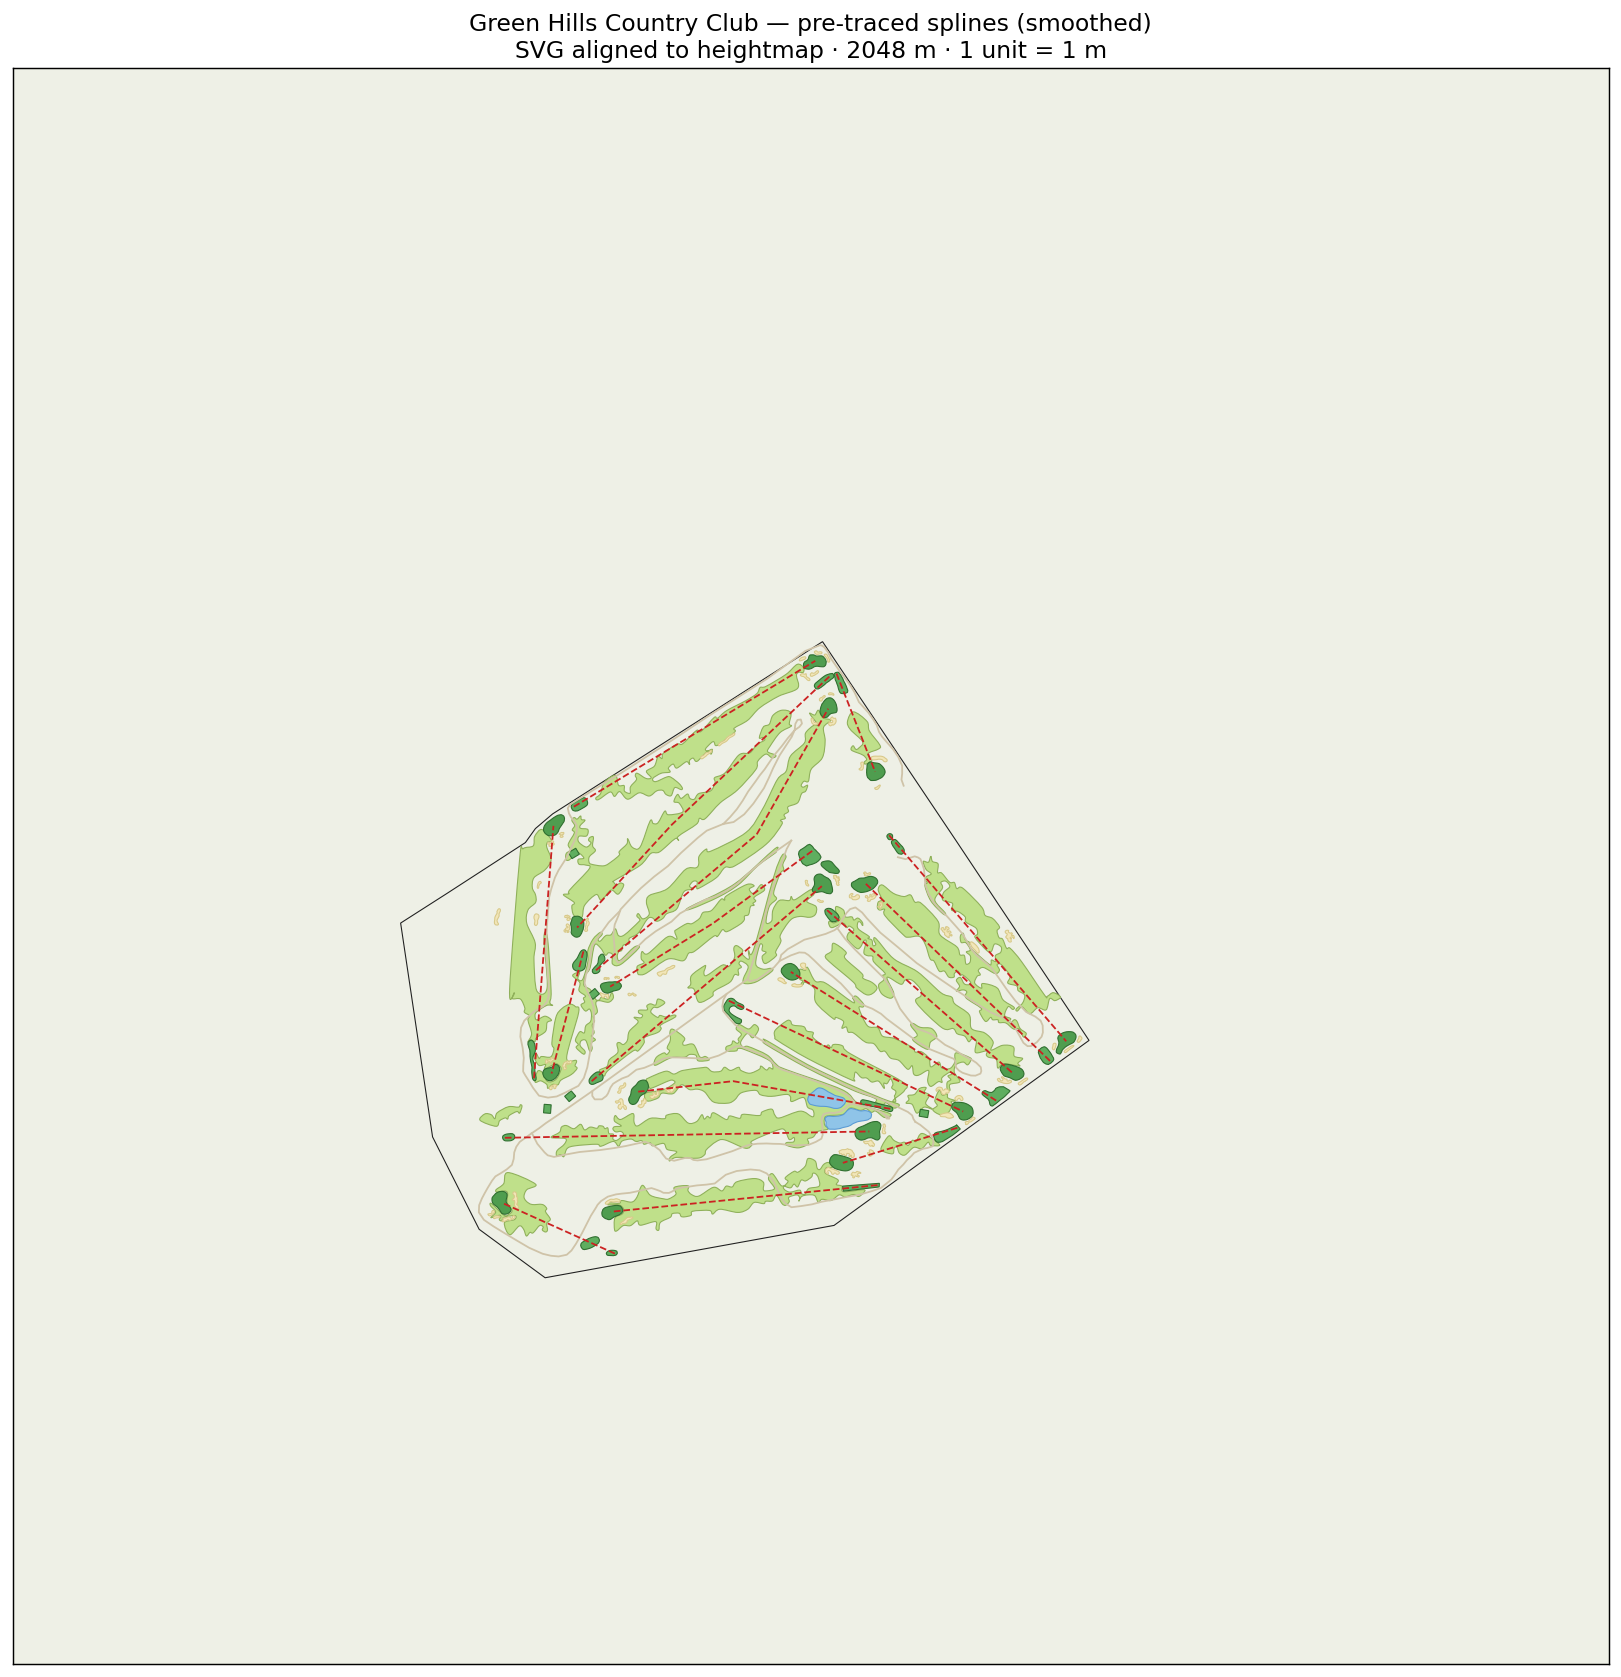
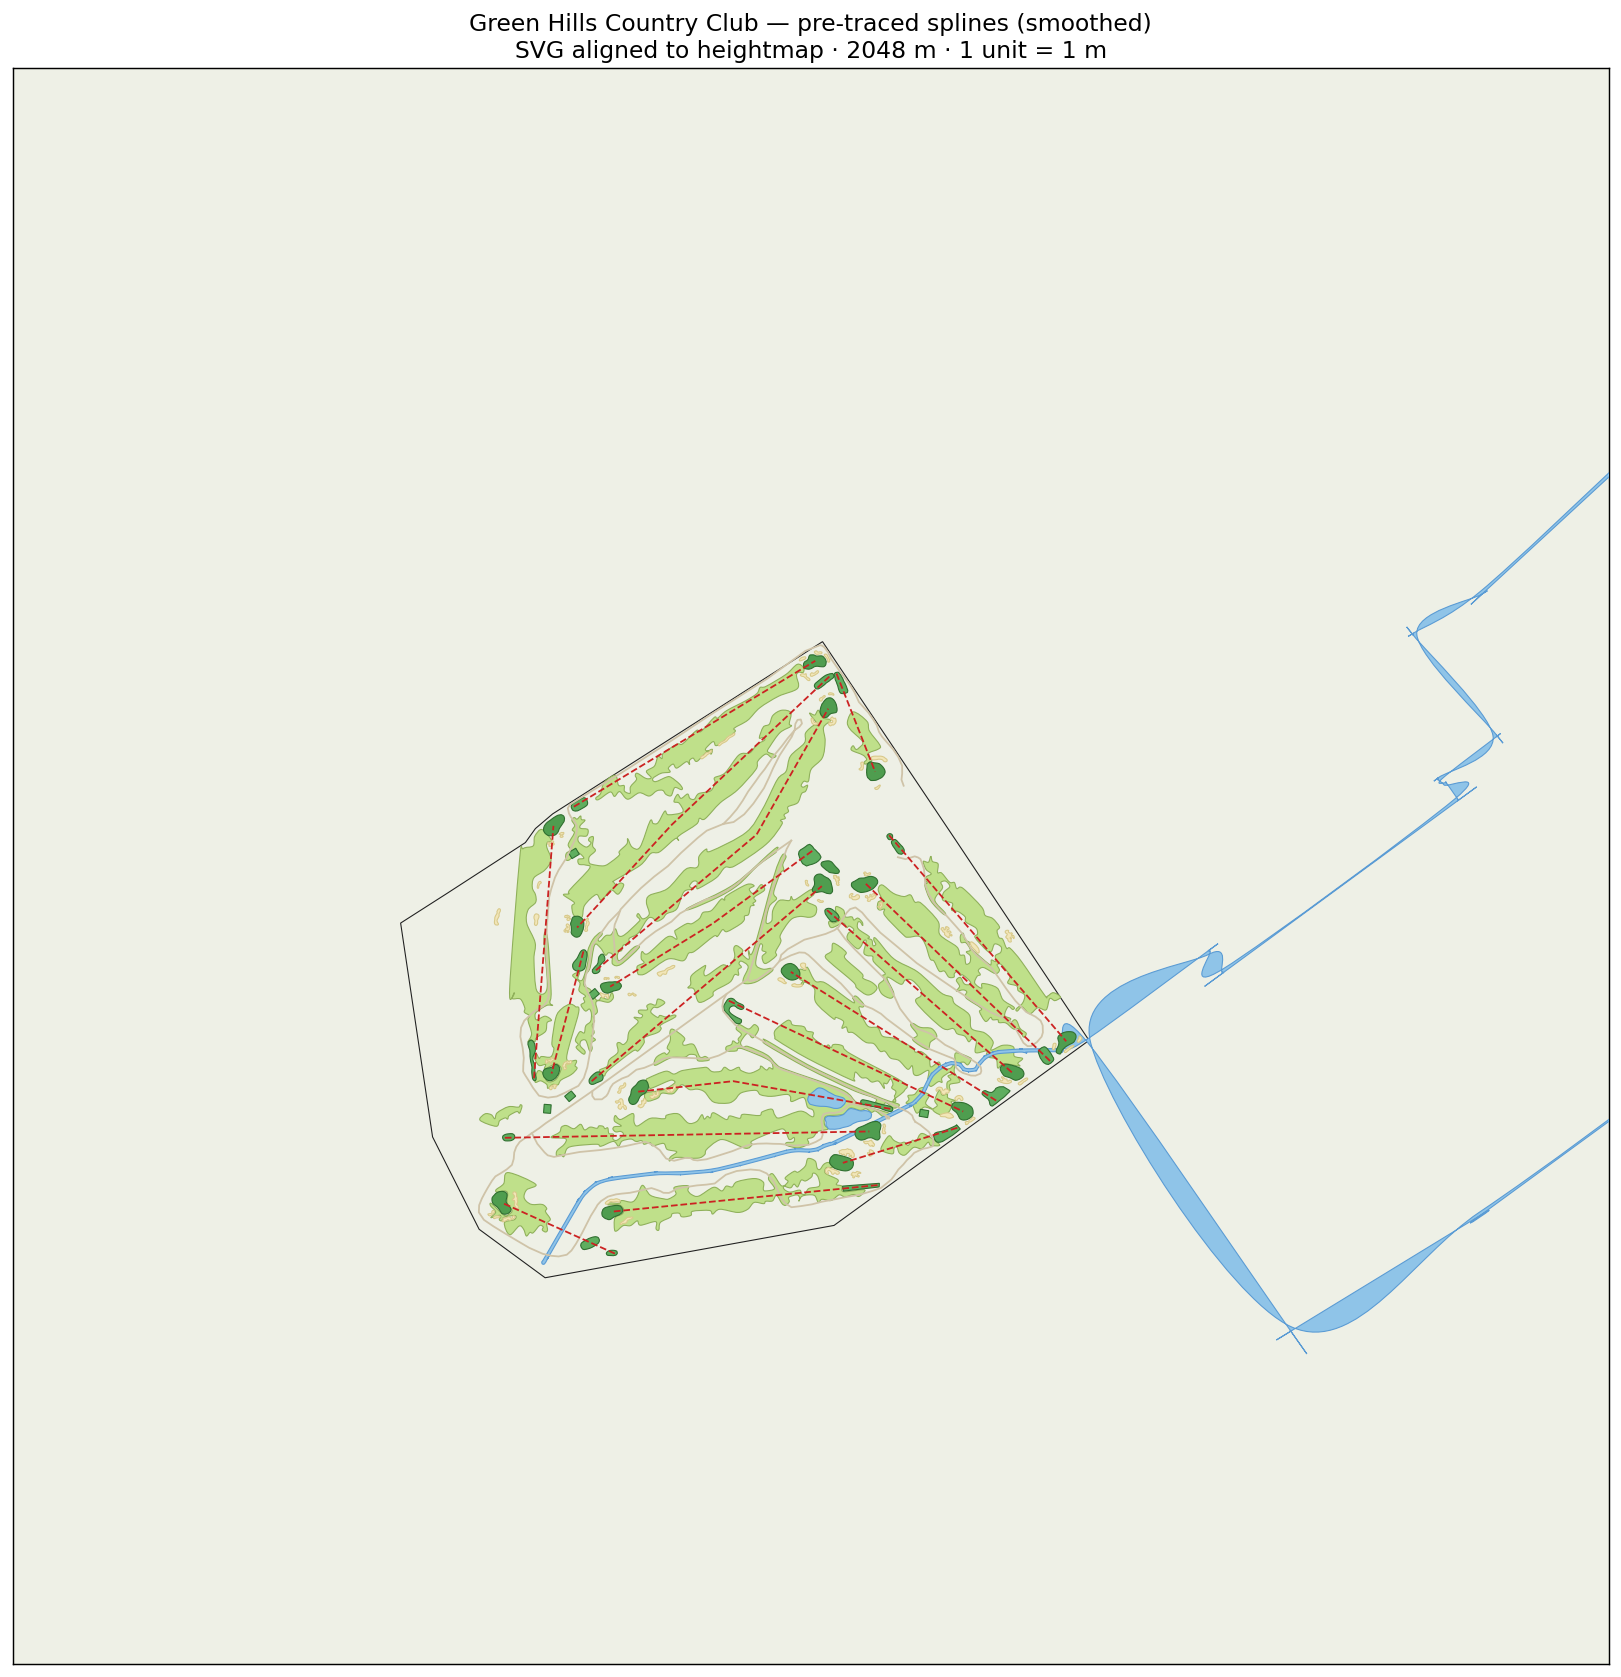
Add water stage: Green Hills Creek (OSM waterway) + ponds
Query OSM waterway=* (the creek wasn't tagged as a golf hazard), buffer the
6 "Green Hills Creek" stream segments into a channel, and combine with the
pond polygons. Splines/crops now pull aerial fairways + championship tees +
assembled water (raw OSM fairway/water/creek dropped in favour of these).

https://claude.ai/code/session_015KpCNaLMgitkL9wS88bLC4

diff --git a/gspro_course/water.py b/gspro_course/water.py
@@ -1,0 +1,54 @@
+"""Assemble the course water: pond polygons + the creek buffered into a channel.
+
+The creek ("Green Hills Creek") is mapped in OSM as waterway=stream lines; we
+buffer them into a thin water-hazard channel. Ponds come from natural=water /
+golf=water_hazard polygons.
+"""
+import json
+
+from shapely.geometry import mapping, shape
+from shapely.ops import transform as shp_transform, unary_union
+from pyproj import Transformer
+
+POND_CATS = {"water", "water_hazard", "lateral_water_hazard"}
+CREEK_HALFWIDTH_M = 2.0
+
+
+def generate(cfg, features):
+    fwd = Transformer.from_crs(4326, cfg.epsg, always_xy=True)
+    inv = Transformer.from_crs(cfg.epsg, 4326, always_xy=True)
+    to_utm = lambda g: shp_transform(fwd.transform, g)
+    to_ll = lambda g: shp_transform(inv.transform, g)
+
+    out = []
+    for f in features:
+        if f["category"] in POND_CATS and f["geom"].geom_type == "Polygon":
+            out.append(("pond", f["geom"]))
+
+    creek = [to_utm(f["geom"]) for f in features
+             if f["category"] == "creek" and f["geom"].geom_type == "LineString"]
+    if creek:
+        buf = unary_union([ln.buffer(CREEK_HALFWIDTH_M, cap_style=2) for ln in creek])
+        parts = [buf] if buf.geom_type == "Polygon" else list(buf.geoms)
+        for p in parts:
+            out.append(("creek", to_ll(p)))
+    return out
+
+
+def write_geojson(cfg, polys):
+    gj = {"type": "FeatureCollection", "features": [
+        {"type": "Feature", "properties": {"category": "water", "kind": kind},
+         "geometry": mapping(g)} for kind, g in polys]}
+    p = cfg.derived_dir / "water.geojson"
+    p.write_text(json.dumps(gj))
+    return p
+
+
+def load(cfg):
+    p = cfg.derived_dir / "water.geojson"
+    if not p.exists():
+        return []
+    gj = json.loads(p.read_text())
+    return [{"category": "water", "geom": shape(ft["geometry"]),
+             "tags": {"kind": ft["properties"].get("kind", "")}}
+            for ft in gj["features"] if shape(ft["geometry"]).is_valid]

diff --git a/scripts/hole_crops.py b/scripts/hole_crops.py
@@ -15,8 +15,10 @@ import numpy as np
 
 sys.path.insert(0, str(Path(__file__).resolve().parent.parent))
 
-from gspro_course import config, osm, fairways, tees
+from gspro_course import config, osm, fairways, tees, water
 from gspro_course.geo import Projector
+
+_REPLACED = {"fairway", "water", "water_hazard", "lateral_water_hazard", "creek"}
 from gspro_course.terrain import utm_bbox
 from gspro_course.splines import LAYERS, LINE_LAYERS
 
@@ -46,8 +48,8 @@ def main():
         return ((x - xmin) / box * px, (ymax - y) / box * px)
 
     trees = json.loads((cfg.derived_dir / "trees.json").read_text())["trees"]
-    features = [f for f in osm.parse(osm.fetch(cfg)) if f["category"] != "fairway"]
-    features += fairways.load_generated(cfg) + tees.load(cfg)
+    features = [f for f in osm.parse(osm.fetch(cfg)) if f["category"] not in _REPLACED]
+    features += fairways.load_generated(cfg) + tees.load(cfg) + water.load(cfg)
     holes = {int(f["tags"]["ref"]): f for f in features
              if f["category"] == "hole" and f["tags"].get("ref", "").isdigit()}
     # black tee box coords per hole, to widen the crop to include them

diff --git a/scripts/build_splines.py b/scripts/build_splines.py
@@ -11,7 +11,9 @@ from pathlib import Path
 
 sys.path.insert(0, str(Path(__file__).resolve().parent.parent))
 
-from gspro_course import config, osm, splines, fairways, tees
+from gspro_course import config, osm, splines, fairways, tees, water
+
+_REPLACED = {"fairway", "water", "water_hazard", "lateral_water_hazard", "creek"}
 
 
 def main():
@@ -24,10 +26,10 @@ def main():
     cfg.ensure_dirs()
     print(f"== {cfg.name}: splines ==")
 
-    # drop OSM's crude fairways in favour of the aerial-detected ones
+    # use aerial-detected fairways + assembled water + championship tees
     features = [f for f in osm.parse(osm.fetch(cfg, force=args.force))
-                if f["category"] != "fairway"]
-    features += fairways.load_generated(cfg) + tees.load(cfg)
+                if f["category"] not in _REPLACED]
+    features += (fairways.load_generated(cfg) + tees.load(cfg) + water.load(cfg))
     svg_path = cfg.derived_dir / "splines.svg"
     counts = splines.build(features, cfg, svg_path)
     print("splines per layer:", json.dumps(counts))

diff --git a/scripts/build_water.py b/scripts/build_water.py
@@ -1,0 +1,29 @@
+#!/usr/bin/env python3
+"""Build the course water: ponds + buffered creek channel.
+
+Usage:
+    python scripts/build_water.py green-hills
+"""
+import sys
+from pathlib import Path
+
+sys.path.insert(0, str(Path(__file__).resolve().parent.parent))
+
+from gspro_course import config, osm, water
+
+
+def main():
+    cfg = config.load(sys.argv[1] if len(sys.argv) > 1 else "green-hills")
+    cfg.ensure_dirs()
+    print(f"== {cfg.name}: water (creek + ponds) ==")
+    features = osm.parse(osm.fetch(cfg, force=True))  # refresh to include waterway
+    polys = water.generate(cfg, features)
+    out = water.write_geojson(cfg, polys)
+    from collections import Counter
+    kinds = Counter(k for k, _ in polys)
+    print(f"water features: {dict(kinds)}")
+    print("wrote", out)
+
+
+if __name__ == "__main__":
+    main()

diff --git a/gspro_course/osm.py b/gspro_course/osm.py
@@ -19,6 +19,7 @@ def build_query(lat, lon, course_r, scenery_r):
   way(around:{course_r},{lat},{lon})["leisure"="golf_course"];
   relation(around:{course_r},{lat},{lon})["leisure"="golf_course"];
   way(around:{course_r},{lat},{lon})["natural"="water"];
+  way(around:{course_r},{lat},{lon})["waterway"];
   way(around:{scenery_r},{lat},{lon})["building"];
   way(around:{scenery_r},{lat},{lon})["aeroway"];
 );
@@ -62,6 +63,8 @@ def categorize(el):
         return "course_boundary"
     if t.get("natural") == "water":
         return "water"
+    if t.get("waterway"):
+        return "creek"
     if t.get("aeroway"):
         return "aeroway:" + t["aeroway"]
     if "building" in t:

diff --git a/README.md b/README.md
@@ -35,8 +35,14 @@ python3 -m venv .venv
 # Pull USGS 3DEP DEM, write 16-bit heightmap (PNG + RAW) + meta + hillshade
 .venv/bin/python scripts/build_terrain.py green-hills
 
-# Generate fairway polygons for the 14 holes OSM didn't map
+# Detect fairways from the aerial (consistent mown green)
 .venv/bin/python scripts/build_fairways.py green-hills
+
+# Place championship (black) tee boxes; edit config/<slug>-black-tees.yaml for exact spots
+.venv/bin/python scripts/build_backtees.py green-hills
+
+# Assemble water: ponds + buffered creek channel
+.venv/bin/python scripts/build_water.py green-hills
 
 # OSM + generated fairways -> Inkscape-layered SVG splines (smoothed) + preview
 .venv/bin/python scripts/build_splines.py green-hills
